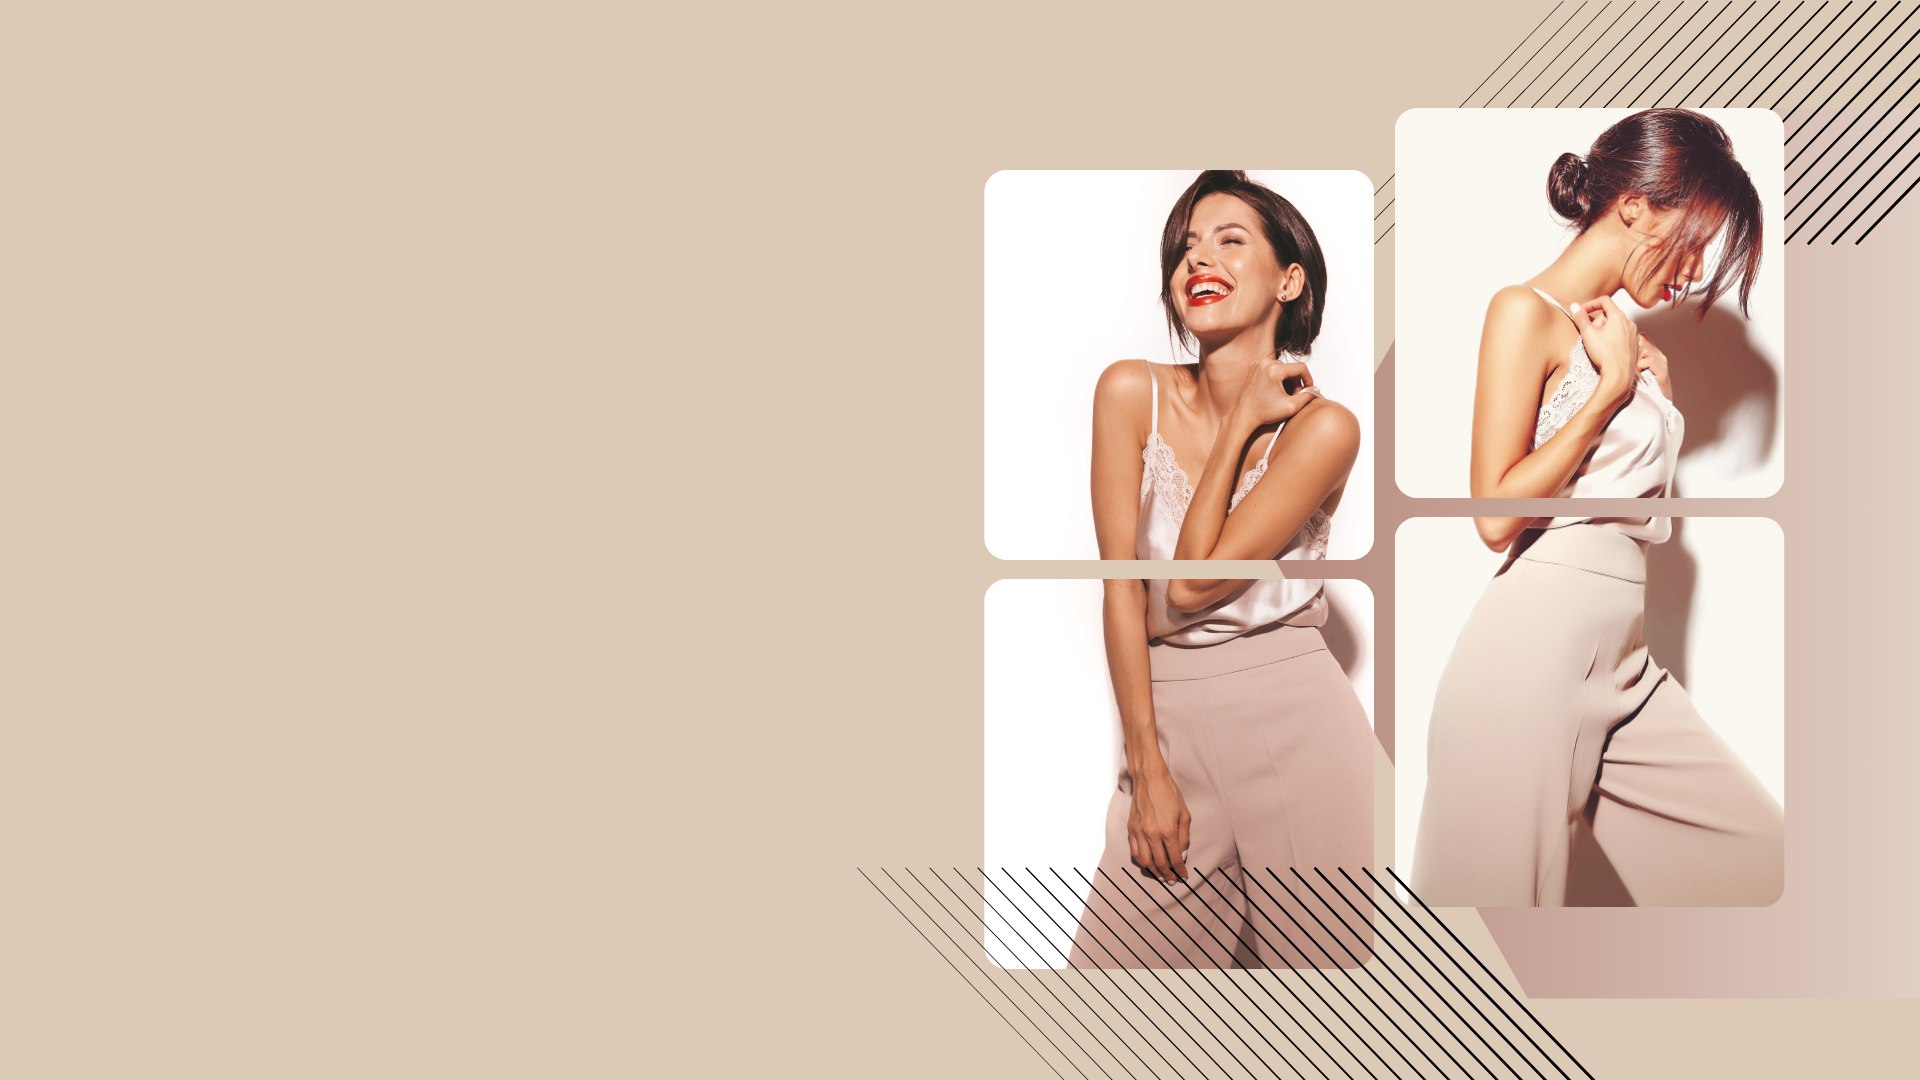
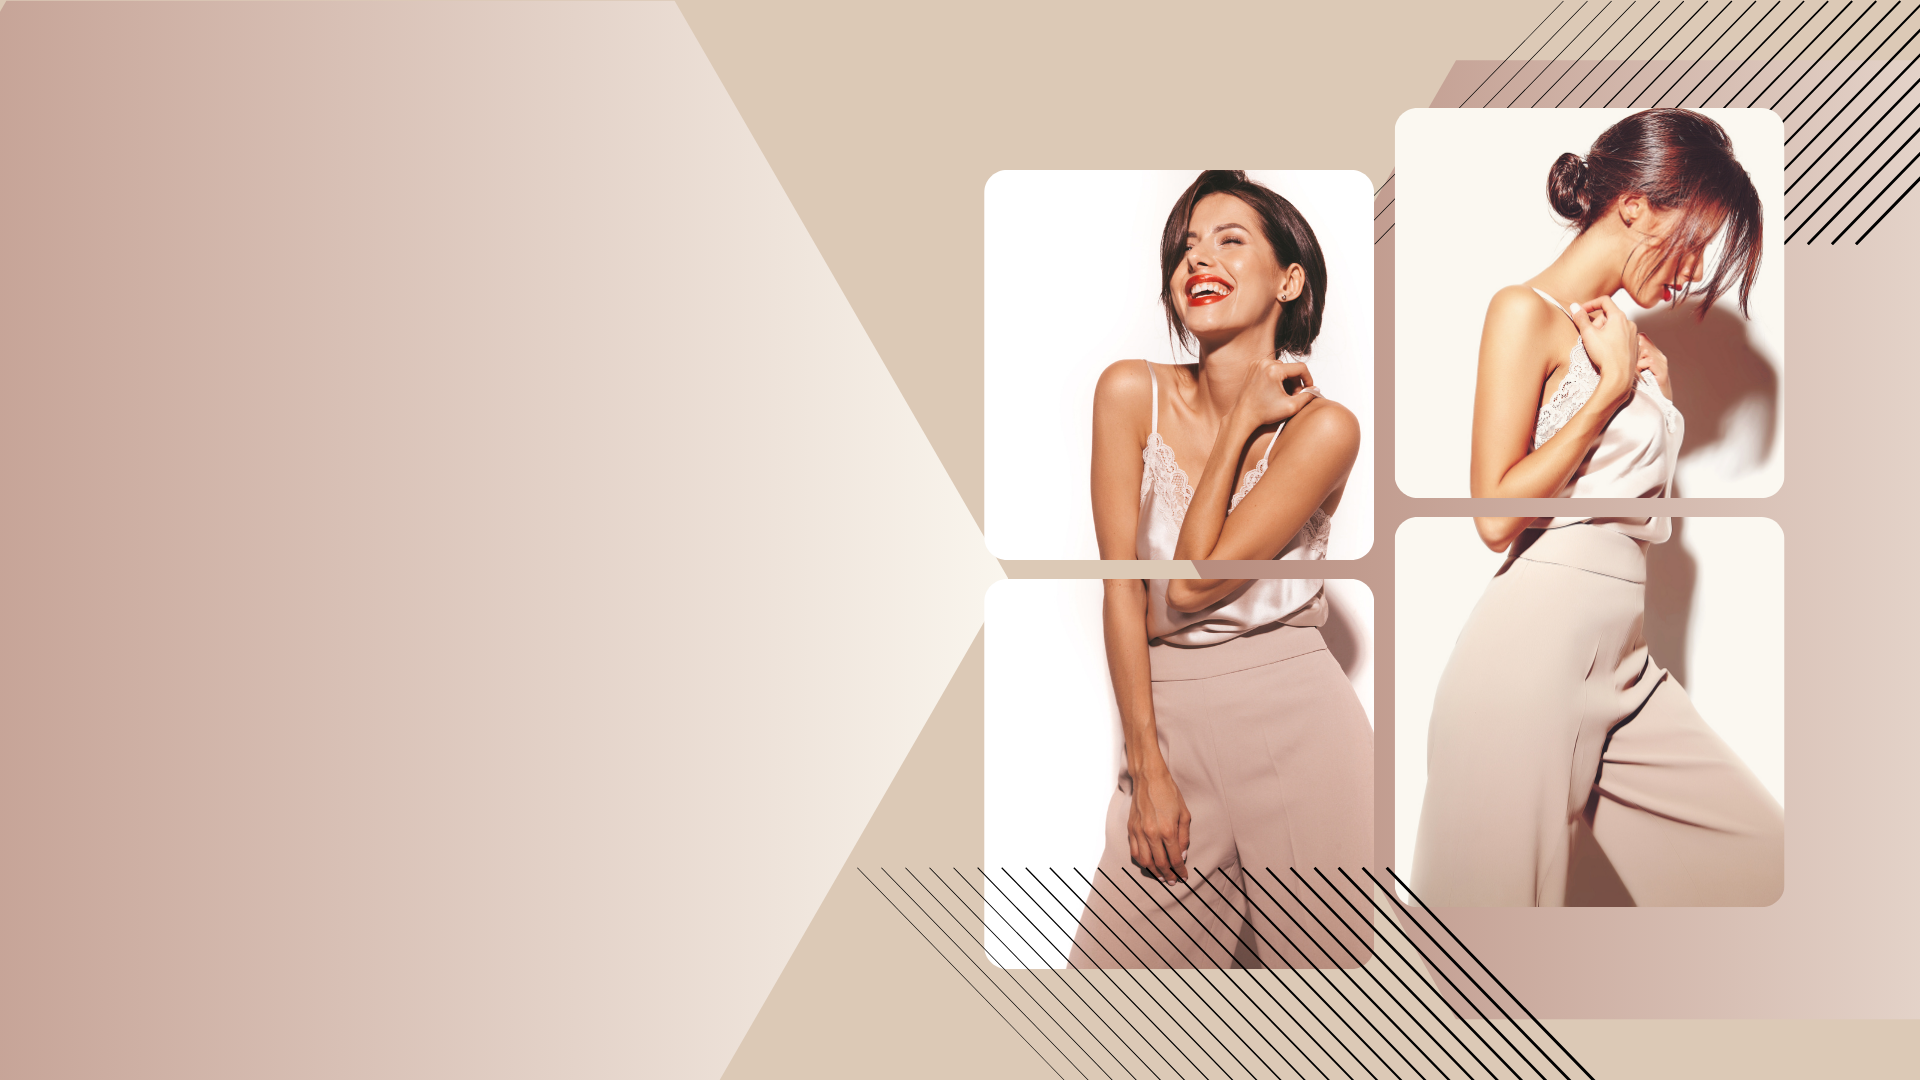
Update hero styles

diff --git a/frontend/src/components/Hero.jsx b/frontend/src/components/Hero.jsx
@@ -5,22 +5,32 @@ const Hero = () => {
   return (
     <div
       className={
-        "relative w-full h-[88vh] md:bg-cover md:bg-center bg-right md:bg-no-repeat flex items-center justify-left"
+        `relative w-full h-[88vh] md:bg-cover md:bg-center bg-right md:bg-no-repeat flex items-center justify-center md:justify-start`
       }
       style={{ backgroundImage: `url(${assets.hero})` }}
     >
-        <div className="w-full md:w-[450px] h-[300px] md:h-[500px] p-20">
-            <div className="flex flex-row gap-3 items-center ml-8">
-            <hr className="border-1 border-black w-[30px]"/>
-            <p className="cormorant-garamond-medium-italic text-5xl bg-none">NEW</p>
-            </div>
-            <p className="cormorant-garamond-bold text-6xl ml-20">ARRIVALS</p>
-            <div className="flex flex-row gap-3 items-center mt-10">
-            <p className="font-medium text-l tracking-wide">COLLECTION OUT NOW</p>
-            <hr className="border-1 border-black w-[70px]"/>
-            </div>
-            <button className="bg-black text-white mt-14 ml-20 px-8 py-3 hover:text-black hover:bg-white">SHOP HERE</button>
+      <div className="bg-white w-full md:w-[45%] m-10 md:m-15 py-8 px-4 flex justify-center md:justify-start rounded-xl">
+        <div className="w-full md:w-[5800px] flex flex-col items-center">
+          <div className="flex flex-row gap-3 items-center">
+            <hr className="border-1 border-black w-[30px]" />
+            <p className="cormorant-garamond-regular-italic text-slate-800 text-4xl bg-none">
+              NEW
+            </p>
+          </div>
+          <p className="cormorant-garamond-bold-italic text-[#727D71] text-6xl">
+            ARRIVALS
+          </p>
+          <div className="flex flex-row gap-3 items-center mt-1">
+            <p className="font-semibold text-md md:text-sm text-slate-600 tracking-wide">
+              LATEST COLLECTION HERE
+            </p>
+            <hr className="border-2 border-slate-600 w-[50px] md:w-[70px]" />
+          </div>
+          <button className="bg-[#727D71] text-white font-bold rounded-full  mt-16 px-8 py-3 hover:text-[#727D71] hover:bg-white">
+            SHOP NOW
+          </button>
         </div>
+      </div>
     </div>
   );
 };

diff --git a/frontend/src/index.css b/frontend/src/index.css
@@ -11,18 +11,17 @@ a.active hr {
 
 * {
     font-family: 'Open Sans';
-    background-color: #DCC9B6;
 }
 
-.cormorant-garamond-bold {
+.cormorant-garamond-bold-italic {
   font-family: "Cormorant Garamond", serif;
   font-weight: 700;
-  font-style: normal;
+  font-style: italic;
 }
 
-.cormorant-garamond-medium-italic {
+.cormorant-garamond-regular-italic {
   font-family: "Cormorant Garamond", serif;
-  font-weight: 300;
+  font-weight: 400;
   font-style: italic;
 }
   
